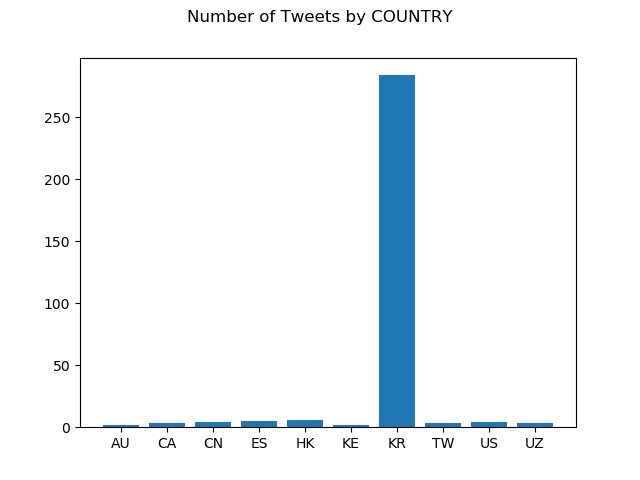
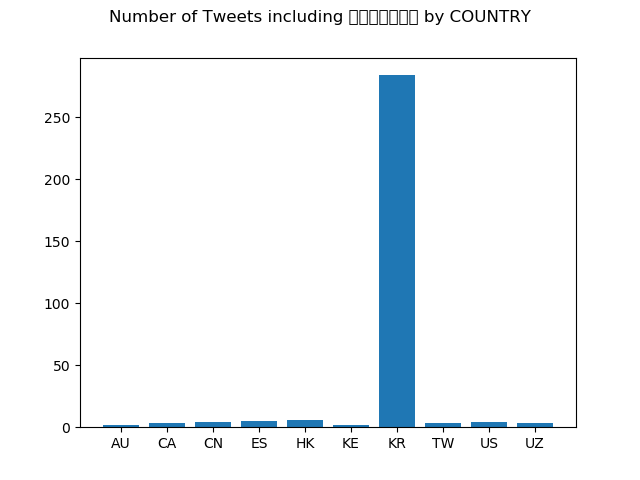
sorted visualizations from low to high

Changed region(s): [[0.1562, 0.0, 0.8125, 0.0625]]

diff --git a/src/visualize.py b/src/visualize.py
@@ -38,12 +38,13 @@ num_tweets = []
 for i in top_10:
     num_tweets.append(hashmap[i])
 
+sorted_data = sorted(zip(num_tweets, top_10))
+num_tweets, top_10 = zip(*sorted_data)
+
 x = args.input_path.split('.')[1].upper()
+key = args.key.split('#')[1]
 plt.bar(top_10, num_tweets)
-plt.suptitle(f'Number of Tweets by {x}')
-plt.savefig(f'{x.lower()}.png')
-
-
-
+plt.suptitle(f'Number of Tweets including {key} by {x}')
+plt.savefig(f'{key}_tweets_by_{x.lower()}.png')
 
 
